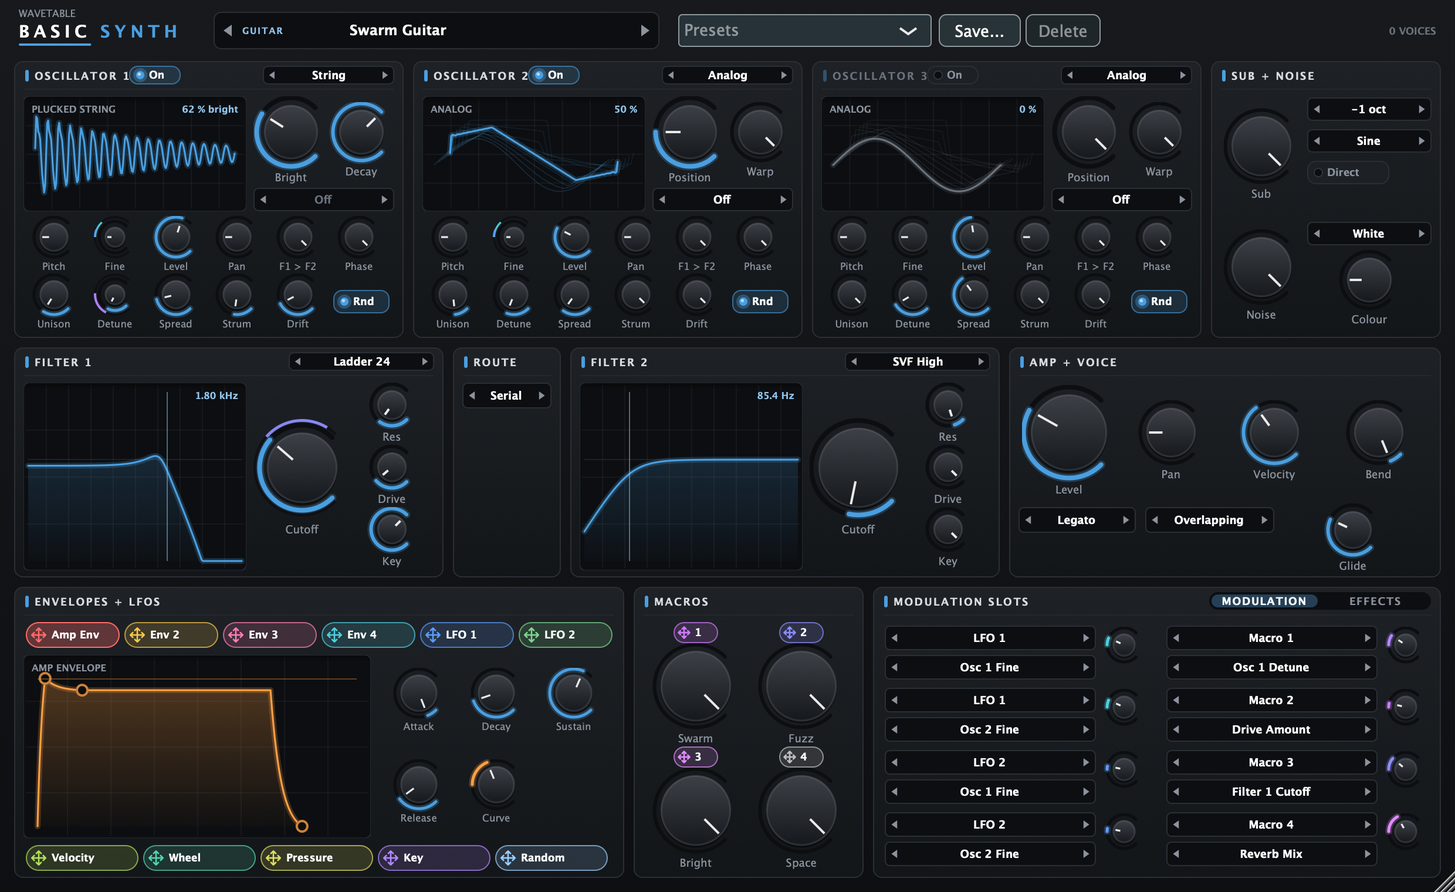
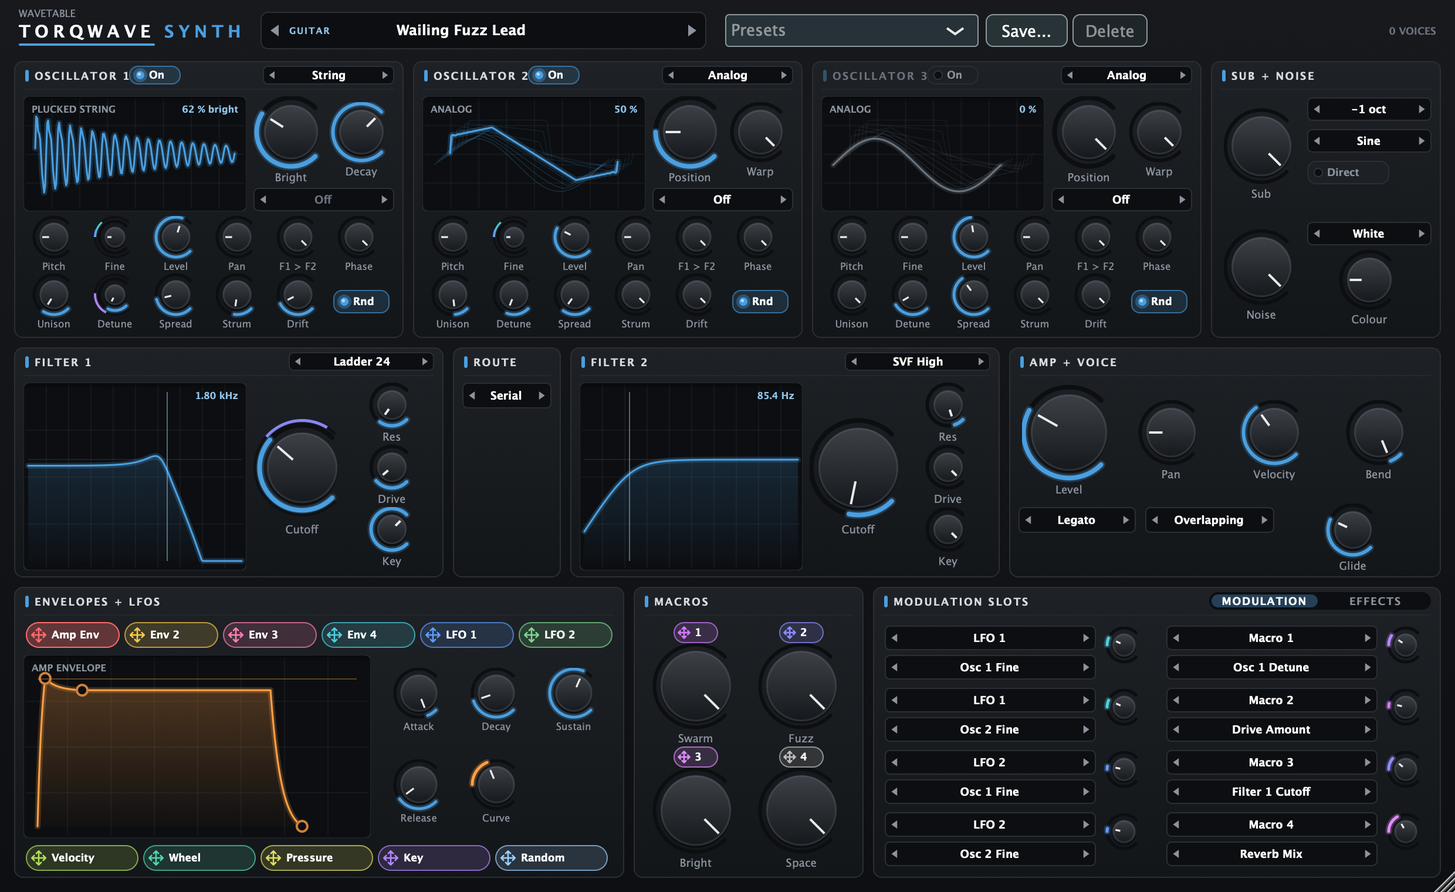
Basic Synth is now Torqwave Synth; Swarm Guitar patch is Wailing Fuzz Lead
The instrument's name changes in its window, the instrument menus and
Ask Torq; its plug-in ID and uid stay, so sessions and presets still
find it. A preset's instrument is shown by a built-in's current name,
looked up by its ID, so the factory presets saved as Basic Synth show
the new one. The window's header has room for the longer name.

The Swarm Guitar patch is renamed so it doesn't share a name with the
built-in Swarm Guitar instrument. Docs, the guide screenshot and the
changelog follow; older changelog entries keep the old name.

diff --git a/Tests/AiTests.cpp b/Tests/AiTests.cpp
@@ -638,7 +638,7 @@ namespace
 
         const auto found = call ("list_plugins", R"({"search": "limit"})");
         check ((int) found["count"] == 1 && found["plugins"][0]["name"] == juce::var ("Limiter"), "AI plug-ins: list_plugins searches by name");
-        check (! (bool) call ("add_plugin", R"({"plugin": "Basic Synth"})")["ok"], "AI plug-ins: an instrument isn't put in the effect chain");
+        check (! (bool) call ("add_plugin", R"({"plugin": "Torqwave Synth"})")["ok"], "AI plug-ins: an instrument isn't put in the effect chain");
 
         const auto added = call ("add_plugin", R"({"plugin": "Limiter"})");
         check ((bool) added["ok"] && (int) added["slot"] == 1 && w.rackChanged(), "AI plug-ins: a plug-in is added by name");
@@ -1012,7 +1012,7 @@ namespace
                "Ask Torq sessions: volume automation drawn from points in any order, the same again and a pan out of range refused, listed by get_session, and removed");
 
         const auto added = call ("add_track_effect", R"({"track": "Reverb", "plugin": "Reverb"})");
-        const auto synth = call ("add_track_effect", R"({"track": "Drums", "plugin": "Basic Synth"})");
+        const auto synth = call ("add_track_effect", R"({"track": "Drums", "plugin": "Torqwave Synth"})");
         const auto unknown = call ("add_track_effect", R"({"track": "Drums", "plugin": "Nothing Like It"})");
         const auto loads = w.getChainChanges();
         check ((bool) added["ok"] && ! (bool) synth["ok"] && ! (bool) unknown["ok"] && loads.size() == 1 && loads[0].chain.size() == 1
@@ -1022,7 +1022,7 @@ namespace
 
         const auto shifted = call ("set_clip_effects", "{\"clip\": " + id + ", \"pitch\": -5, \"add\": \"Reverb\"}");
         const auto tooFar = call ("set_clip_effects", "{\"clip\": " + id + ", \"pitch\": 13}");
-        const auto instrument = call ("set_clip_effects", "{\"clip\": " + id + ", \"add\": \"Basic Synth\"}");
+        const auto instrument = call ("set_clip_effects", "{\"clip\": " + id + ", \"add\": \"Torqwave Synth\"}");
         const auto nothing = call ("set_clip_effects", "{\"clip\": " + id + "}");
         const auto& fx = state.tracks[0].clips[0].effects;
         const auto shown = call ("list_clips", R"({"track": "Drums"})")["clips"][0]["effects"].toString();
@@ -1189,7 +1189,7 @@ namespace
                "Ask Torq chains: the plan made on the engine's chain: an effect added first, one taken off, one switched off and set from text");
         engine.clearTrackEffects();
 
-        // An instrument track: Basic Synth and a compressor; a reverb put first among the effects
+        // An instrument track: Torqwave Synth and a compressor; a reverb put first among the effects
         // and a parameter of the synth set, the synth staying first in the chain.
         SessionState withSynth;
         withSynth.sampleRate = 48000.0;
@@ -1199,7 +1199,7 @@ namespace
         const auto keysId = keys.id;
         engine.session.reset (withSynth, {});
 
-        for (auto& name : { "Basic Synth", "Compressor" })
+        for (auto& name : { "Torqwave Synth", "Compressor" })
         {
             juce::PluginDescription d;
 
@@ -1383,7 +1383,7 @@ namespace
                         && catalogue.getUnderstanding (d)->model == "test-model";
 
         check (p.done == effects.size() && p.read == effects.size() && p.written == effects.size() && allLearnt
-                   && ! catalogue.getUnderstanding (builtIn ("Basic Synth")).has_value() && ! catalogue.hasCurrentFacts (builtIn ("Basic Synth")),
+                   && ! catalogue.getUnderstanding (builtIn ("Torqwave Synth")).has_value() && ! catalogue.hasCurrentFacts (builtIn ("Torqwave Synth")),
                "plug-in catalogue: Learn All reads and describes every built-in effect, and leaves instruments for later (" + p.message + ")");
         check ((int) requests.size() == effects.size() && requests[0].body.contains ("parameterCount") && ! requests[0].body.contains ("\"tools\""),
                "plug-in catalogue: the model is sent each plug-in's facts, with no tools");
@@ -1487,7 +1487,7 @@ namespace
         Ai::Workspace::Start start;
         Ai::SequenceTools::Context context;
         context.sequence = bassLine();
-        context.instrument = "Basic Synth";
+        context.instrument = "Torqwave Synth";
         context.instrumentAbout = "A simple subtractive synth.";
         context.instrumentParameters = { "Filter 1 Cutoff", "Filter 1 Resonance" };
         context.tempo = 96.0;
@@ -1507,14 +1507,14 @@ namespace
 
         const auto system = w.systemMessage();
         check (w.isSequence() && names == juce::StringArray { "get_sequence", "write_sequence", "suggest_for_sequence", "list_plugins", "describe_plugin" }
-                   && system.contains ("\"Night Bass\" open: a Bass part") && system.contains ("in A minor") && system.contains ("Basic Synth (A simple subtractive synth)")
+                   && system.contains ("\"Night Bass\" open: a Bass part") && system.contains ("in A minor") && system.contains ("Torqwave Synth (A simple subtractive synth)")
                    && system.contains ("96 BPM") && system.contains ("session's tempo is 128 BPM") && system.contains ("the session is in E minor"),
                "Ask Torq sequences: five tools (" + names.joinIntoString (", ") + "), and the system message gives the part's role, key, instrument, the tempos and the session's key");
 
         const auto got = call ("get_sequence", "{}");
         check ((bool) got["ok"] && got["role"] == juce::var ("Bass") && got["key"] == juce::var ("A minor") && (int) got["length"] == 7680 && (int) got["ticks_per_beat"] == 960
                    && got["notes"].size() == 4 && (int) got["notes"][1]["velocity"] == 90 && got["notes"][2]["name"] == juce::var ("F#3")
-                   && got["instrument"] == juce::var ("Basic Synth") && got["instrument_about"] == juce::var ("A simple subtractive synth.")
+                   && got["instrument"] == juce::var ("Torqwave Synth") && got["instrument_about"] == juce::var ("A simple subtractive synth.")
                    && got["instrument_parameters"].size() == 2 && (double) got["session_tempo"] == 128.0 && got["session_key"] == juce::var ("E minor")
                    && got["outside_key"].size() == 2 && got["outside_key"][0] == juce::var ("F#3 at bar 1, beat 3") && got["outside_key"][1] == juce::var ("G#2 at bar 1, beat 4"),
                "Ask Torq sequences: get_sequence gives the notes in ticks with their names, the instrument and what it is, and names the notes outside the key ("
@@ -1552,10 +1552,10 @@ namespace
             return ! (bool) r["ok"] ? r["error"].toString() : juce::String();
         };
         const auto noNote = suggestRefused (R"({ "title": "x", "kind": "notes", "remove": [ { "pitch": 60, "start": 0 } ] })");
-        const auto instrument = suggestRefused (R"({ "title": "x", "kind": "effect", "effect": "Basic Synth" })");
+        const auto instrument = suggestRefused (R"({ "title": "x", "kind": "effect", "effect": "Torqwave Synth" })");
         const auto noParameter = suggestRefused (R"({ "title": "x", "kind": "automation", "parameter": "Warmth", "points": [ { "tick": 0, "value": 0.5 } ] })");
         const auto noKind = suggestRefused (R"({ "title": "x", "kind": "magic" })");
-        check (noNote.contains ("no note to take out") && instrument.contains ("No effect plug-in is called \"Basic Synth\"") && noParameter.contains ("no parameter called \"Warmth\"")
+        check (noNote.contains ("no note to take out") && instrument.contains ("No effect plug-in is called \"Torqwave Synth\"") && noParameter.contains ("no parameter called \"Warmth\"")
                    && noKind.contains ("kind is") && w.getSequenceTools()->getSuggestions().empty(),
                "Ask Torq sequences: suggest_for_sequence refuses a note that isn't there, an instrument as an effect, a parameter the instrument hasn't and an unknown kind");
 
@@ -1590,7 +1590,7 @@ namespace
         const auto folder = juce::File::createTempFile ("ask-sequencer");
         folder.createDirectory();
         const auto file = folder.getChildFile (juce::String ("Night Bass") + SequenceFile::extension);
-        // Its voice: the Basic Synth.
+        // Its voice: the Torqwave Synth.
         auto line = bassLine();
         {
             SessionState s;

diff --git a/Tests/InstrumentTrackTests.cpp b/Tests/InstrumentTrackTests.cpp
@@ -1078,7 +1078,7 @@ namespace
         BuiltInEffects::addTo (engine.knownPlugins);
         const auto known = Instrument::known (engine.knownPlugins);
         const auto builtInFirst = ! known.isEmpty() && known[0].fileOrIdentifier == BuiltInEffects::basicSynthId
-                                  && Instrument::title (known[0]) == "Basic Synth (built in)"
+                                  && Instrument::title (known[0]) == "Torqwave Synth (built in)"
                                   && std::all_of (known.begin(), known.end(), [] (auto& d) { return d.isInstrument; });
 
         SessionState s;
@@ -1093,7 +1093,7 @@ namespace
 
         // The view hears of the new track by a change message, and the instrument is made asynchronously.
         const auto selected = TestUtils::runUntil ([&] { return view.getSelectedTrack() == 1; }, 5000);
-        const auto added = state->tracks.size() == 2 && state->tracks[1].name == "Basic Synth" && state->tracks[1].isInstrument && selected;
+        const auto added = state->tracks.size() == 2 && state->tracks[1].name == "Torqwave Synth" && state->tracks[1].isInstrument && selected;
         const auto loaded = TestUtils::runUntil ([&] { return engine.getTrackEffects().getInstrument (trackId) != nullptr; }, 10000);
 
         // A right-click on a lane away from the clips: adding tracks anywhere, notes on an
@@ -1178,15 +1178,15 @@ namespace
         for (juce::PopupMenu::MenuItemIterator it (manyMenu); it.next();)
             manyTexts.add (it.getItem().text + (it.getItem().subMenu != nullptr ? " >" : ""));
 
-        const auto flat = fewTexts.size() == 3 && fewTexts[0] == "Basic Synth (built in)" && fewTexts[1] == "Zed (VST3, Acme)" && fewTexts[2] == "Alpha (VST3, Beta Labs)" && fewSubmenus == 0;
-        const auto grouped = manyTexts.size() == 3 && manyTexts[0] == "Basic Synth (built in)" && manyTexts[1] == "Audio Units >" && manyTexts[2] == "VST3 >";
-        const auto byFormat = mixedTexts == juce::StringArray { "Basic Synth (built in)", "Audio Units >", "VST3 >" };
+        const auto flat = fewTexts.size() == 3 && fewTexts[0] == "Torqwave Synth (built in)" && fewTexts[1] == "Zed (VST3, Acme)" && fewTexts[2] == "Alpha (VST3, Beta Labs)" && fewSubmenus == 0;
+        const auto grouped = manyTexts.size() == 3 && manyTexts[0] == "Torqwave Synth (built in)" && manyTexts[1] == "Audio Units >" && manyTexts[2] == "VST3 >";
+        const auto byFormat = mixedTexts == juce::StringArray { "Torqwave Synth (built in)", "Audio Units >", "VST3 >" };
         check (flat && grouped && byFormat, "instrument tracks: the instrument menu lists a few scanned instruments of one format flat with their format and maker, and many, "
                                             "or a few in two formats, under a submenu a format and a maker, the built-in always first ("
                                             + fewTexts.joinIntoString (", ") + " / " + mixedTexts.joinIntoString (", ") + " / " + manyTexts.joinIntoString (", ") + ")");
 
         check (builtInFirst && added && loaded && engine.getTrackEffects().getInstrument (trackId) == nullptr,
-               "instrument tracks: the known instruments start with the Basic Synth (built in); Add Instrument Track adds a track named after "
+               "instrument tracks: the known instruments start with the Torqwave Synth (built in); Add Instrument Track adds a track named after "
                "it, selected, with the instrument first in its chain, and Remove Instrument takes it out"
                    + juce::String (builtInFirst ? "" : " [known]") + (added ? "" : " [added]") + (loaded ? "" : " [loaded]"));
         engine.clearTrackEffects();

diff --git a/Tests/PresetTests.cpp b/Tests/PresetTests.cpp
@@ -118,7 +118,7 @@ namespace
         return std::numeric_limits<float>::quiet_NaN();
     }
 
-    /** The instrument settings a voice carries, loaded into a fresh Basic Synth. */
+    /** The instrument settings a voice carries, loaded into a fresh Torqwave Synth. */
     std::unique_ptr<BuiltInEffects::BasicSynthProcessor> synthFrom (const juce::XmlElement& voice)
     {
         auto* slot = voice.getChildByName ("EFFECTS") != nullptr ? voice.getChildByName ("EFFECTS")->getChildByName ("SLOT") : nullptr;
@@ -244,7 +244,7 @@ void runPresetTests (AudioEngine& engine)
             std::cout << "SKIP  presets: python3 isn't here to run Scripts/make_presets.py again" << std::endl;
     }
 
-    // The voices carry their instrument's settings: the acid line's Basic Synth (written in 0.19.2's terms) has its resonance and
+    // The voices carry their instrument's settings: the acid line's Torqwave Synth (written in 0.19.2's terms) has its resonance and
     // glide, its 320 Hz cutoff lowered 2.4 octaves for its velocity to open again (60 % velocity to filter).
     {
         juce::String error;
@@ -253,9 +253,9 @@ void runPresetTests (AudioEngine& engine)
         const auto groove = SequenceFile::load (presets.getChildFile ("Drums/Full Grooves/Peak Hour Driver.tqseq"), error);
         check (synth != nullptr && std::abs (plainOf (*synth, "filter1Resonance") - 75.0f) < 0.01f && std::abs (plainOf (*synth, "glideTime") - 60.0f) < 0.01f
                    && juce::exactlyEqual (synth->parameter ("voiceMode")->getValue(), 1.0f)
-                   && std::abs (plainOf (*synth, "filter1Cutoff") * std::exp2 (2.4f) - 320.0f) < 0.5f && SequenceFile::instrumentOf (*acid) == "Basic Synth"
+                   && std::abs (plainOf (*synth, "filter1Cutoff") * std::exp2 (2.4f) - 320.0f) < 0.5f && SequenceFile::instrumentOf (*acid) == "Torqwave Synth"
                    && groove.has_value() && SequenceFile::instrumentOf (*groove) == "Basic Drums" && groove->channel == 10,
-               "presets: a preset's voice carries its Basic Synth settings (the acid line's resonance 75 %, glide 60 ms as legato, cutoff 320 Hz less its velocity's 2.4 octaves); "
+               "presets: a preset's voice carries its Torqwave Synth settings (the acid line's resonance 75 %, glide 60 ms as legato, cutoff 320 Hz less its velocity's 2.4 octaves); "
                "a drum groove plays on Basic Drums, channel 10");
     }
 
@@ -439,7 +439,7 @@ void runPresetTests (AudioEngine& engine)
         check (onTrack.clipId != 0 && onTrack.trackId == s.tracks[0].id && onTrack.effects == nullptr
                    && onEmpty.clipId != 0 && s.tracks.size() == tracksBefore + 1 && onEmpty.effects != nullptr
                    && onEmpty.effects->toString().contains (BuiltInEffects::basicSynthId),
-               "presets: dropped on an instrument track a preset's notes play on that track's instrument; on empty space it makes a track playing its Basic Synth voice");
+               "presets: dropped on an instrument track a preset's notes play on that track's instrument; on empty space it makes a track playing its Torqwave Synth voice");
     }
 
     SequenceLibrary::setChosenFolder ({});

diff --git a/Source/WaveSynthEditor.cpp b/Source/WaveSynthEditor.cpp
@@ -1169,16 +1169,16 @@ struct WaveSynthEditor::Content final : public juce::Component
         auto header = getLocalBounds().removeFromTop (headerHeight).reduced (16, 0).toFloat();
         juce::GlyphArrangement glyphs;
         const auto font = bold (17.0f).withExtraKerningFactor (0.22f);
-        glyphs.addLineOfText (font, "BASIC", header.getX(), header.getCentreY() + 6.0f);
-        const auto basicWidth = glyphs.getBoundingBox (0, -1, true).getWidth();
+        glyphs.addLineOfText (font, "TORQWAVE", header.getX(), header.getCentreY() + 6.0f);
+        const auto firstWidth = glyphs.getBoundingBox (0, -1, true).getWidth();
         g.setColour (Theme::textStrong);
         glyphs.draw (g);
         juce::GlyphArrangement second;
-        second.addLineOfText (bold (17.0f).withExtraKerningFactor (0.22f), "SYNTH", header.getX() + basicWidth + 8.0f, header.getCentreY() + 6.0f);
+        second.addLineOfText (bold (17.0f).withExtraKerningFactor (0.22f), "SYNTH", header.getX() + firstWidth + 8.0f, header.getCentreY() + 6.0f);
         g.setColour (Theme::accent);
         second.draw (g);
         g.setColour (Theme::accent);
-        g.fillRoundedRectangle (header.getX(), header.getCentreY() + 11.0f, basicWidth, 2.0f, 1.0f);
+        g.fillRoundedRectangle (header.getX(), header.getCentreY() + 11.0f, firstWidth, 2.0f, 1.0f);
         g.setFont (plain (10.0f));
         g.setColour (Theme::dimText);
         g.drawText ("WAVETABLE", juce::Rectangle<float> (header.getX(), header.getCentreY() - 21.0f, 140.0f, 12.0f), juce::Justification::centredLeft);
@@ -1196,7 +1196,7 @@ struct WaveSynthEditor::Content final : public juce::Component
         constexpr int gap = 8, margin = 12;
         auto r = getLocalBounds().reduced (margin, 0);
         auto header = r.removeFromTop (headerHeight);
-        header.removeFromLeft (170);
+        header.removeFromLeft (210);
         header.removeFromRight (100);
         browser.setBounds (header.removeFromLeft (380).withSizeKeepingCentre (380, 32));
         header.removeFromLeft (gap * 2);

diff --git a/Tests/WaveSynthTests.cpp b/Tests/WaveSynthTests.cpp
@@ -418,9 +418,9 @@ namespace
         }
 
         Theme::apply (before);
-        synth.loadPatch ("Swarm Guitar");
+        synth.loadPatch ("Wailing Fuzz Lead");
         window->refresh();
-        synth.loadPatch ("Swarm Guitar");
+        synth.loadPatch ("Wailing Fuzz Lead");
         window->refresh();
         check (drawn && window->knobFor ("osc1Position") != nullptr && window->knobFor ("osc1Position")->getLabel() == "Bright",
                "synth: every page of its window draws in dark and light at 2x, and a string's Position reads as its brightness");
@@ -440,8 +440,8 @@ namespace
             categoriesKnown = categoriesKnown && WaveSynth::patchCategories().contains (p.category);
         }
 
-        check (all.size() >= 1000 && names.size() == all.size() && categoriesKnown && names.count ("Swarm Guitar") == 1 && names.count ("Swarm Drone") == 1,
-               "synth: " + juce::String ((int) all.size()) + " factory patches, each named once, in known categories, Swarm Guitar and Swarm Drone among them");
+        check (all.size() >= 1000 && names.size() == all.size() && categoriesKnown && names.count ("Wailing Fuzz Lead") == 1 && names.count ("Swarm Drone") == 1,
+               "synth: " + juce::String ((int) all.size()) + " factory patches, each named once, in known categories, Wailing Fuzz Lead and Swarm Drone among them");
 
         // Each plays a held minor chord (C3, E flat 3, G3 for two seconds) between -24 and -1 dB.
         juce::StringArray problems;
@@ -698,7 +698,7 @@ namespace
         phrase.push_back ({ 30011, juce::MidiMessage::pitchWheel (1, 12000) });
         juce::StringArray differ;
 
-        for (auto name : { "Acid Drip", "Swarm Guitar", "Gated Machine", "Ghost Signal", "Abyss Reese", "Concrete Pad" })
+        for (auto name : { "Acid Drip", "Wailing Fuzz Lead", "Gated Machine", "Ghost Signal", "Abyss Reese", "Concrete Pad" })
         {
             synth.loadPatch (name);
             const auto reference = play (synth, phrase, (int) (1.5 * rate), 512);

diff --git a/Source/WaveSynthPatches.cpp b/Source/WaveSynthPatches.cpp
@@ -1,6 +1,6 @@
 #include "WaveSynthPatchBuilder.h"
 
-// Basic Synth's factory patches: sounds for dark techno and industrial music. Each is written as
+// Torqwave Synth's factory patches: sounds for dark techno and industrial music. Each is written as
 // the settings it changes from the defaults (a patch loads onto a fresh synth), its modulation
 // slots and its macros. Their levels are checked by a test: every patch plays a held chord
 // between -24 and -1 dB.
@@ -144,11 +144,11 @@ namespace WaveSynthPatchBuilder
 
         //======================================================================
         // Guitar: strings tuned alike and played at once.
-        // Swarm Guitar: a slow, wailing fuzz lead, one note at a time, matched by ear and spectrum to
+        // Wailing Fuzz Lead: a slow, wailing fuzz lead, one note at a time, matched by ear and spectrum to
         // a 2017 industrial ballad's lead: strings that ring on over a sustained wave at the same
         // pitch, fuzz at nearly full, long slides between notes, and a vibrato of about 17 cents at
         // 4 Hz that comes in late, with a slower waver on top.
-        add ("Swarm Guitar", "Guitar").osc (1, string, 62, 90).warp (1, wOff, 100).unison (1, 3, 7, 45, 4, 40)
+        add ("Wailing Fuzz Lead", "Guitar").osc (1, string, 62, 90).warp (1, wOff, 100).unison (1, 3, 7, 45, 4, 40)
             .osc (2, analog, 50, 60).unison (2, 2, 6, 30)
             .filter (1, ladder24, 1800, 30, 35, 100).filter (2, svfHigh, 85, 10).drive (fuzz, 90, 9000)
             .amp (3, 600, 92, 350).mono (350).bend (2).lfo (1, sine, 4.0f, 1, 30).lfoFade (1, 450).lfo (2, drift, 1.5f, 0)

diff --git a/Source/SequenceFile.cpp b/Source/SequenceFile.cpp
@@ -1,4 +1,5 @@
 #include "SequenceFile.h"
+#include "BuiltInEffects.h"
 #include "NoteTools.h"
 #include "TrackTemplate.h"
 
@@ -137,7 +138,15 @@ juce::String instrumentOf (const Sequence& q)
     if (auto* effects = q.voice->getChildByName ("EFFECTS"))
         if (auto* slot = effects->getChildByName ("SLOT"))
             if (auto* plugin = slot->getChildByName ("PLUGIN"); plugin != nullptr && plugin->getBoolAttribute ("isInstrument"))
+            {
+                // A built-in instrument by the name it has now (Basic Synth is Torqwave Synth since 0.19.3).
+                if (juce::PluginDescription d; d.loadFromXml (*plugin))
+                    for (auto& builtIn : BuiltInEffects::getDescriptions())
+                        if (builtIn.fileOrIdentifier == d.fileOrIdentifier && builtIn.pluginFormatName == d.pluginFormatName)
+                            return builtIn.name;
+
                 return plugin->getStringAttribute ("name");
+            }
 
     return {};
 }

diff --git a/Tests/SequenceTests.cpp b/Tests/SequenceTests.cpp
@@ -1385,7 +1385,7 @@ void runSequenceTests (AudioEngine& engine)
                "sequencer: an instrument chosen from the menu opens its window at once");
 
         // Velocity and a lane, heard through the Sequencer's player: a loud A4 on beat 1, a soft one
-        // on beat 2, and a Pan lane at 0 (hard left), through the Basic Synth (whose level follows
+        // on beat 2, and a Pan lane at 0 (hard left), through the Torqwave Synth (whose level follows
         // velocity by 70 %: 1 - 0.7 + 0.7 v).
         {
             const auto folder = juce::File::createTempFile ("heard");

diff --git a/Tests/SynthClickTests.cpp b/Tests/SynthClickTests.cpp
@@ -6,7 +6,7 @@
 #include "TestUtils.h"
 #include "SynthClickTests.h"
 
-// Basic Synth must not click: a note stolen, retriggered, released or silenced by All Sound Off
+// Torqwave Synth must not click: a note stolen, retriggered, released or silenced by All Sound Off
 // fades, and an oscillator starts where it is silent. Three presets that clicked in 0.19.2 are
 // played through the synth at the settings they carry, with their notes and lanes at their tempo,
 // and a torture case retriggers, steals and silences notes on top. The measure is the largest

diff --git a/Source/WaveSynth.h b/Source/WaveSynth.h
@@ -72,7 +72,7 @@ namespace WaveSynth
 
 namespace BuiltInEffects
 {
-    /** The instrument built in, under the plug-in ID Basic Synth has always had: WaveSynth's engine
+    /** The instrument built in, under the plug-in ID it had as Torqwave Synth: WaveSynth's engine
         (see above), stereo, with its own window. A session or preset saved before 0.19.3 loads
         its old settings as the nearest sound the new engine makes: its wave as the Analog table's
         position, oscillators 2 and 3 at their octave, detune and level, its envelope, its

diff --git a/Source/WaveSynthEditor.h b/Source/WaveSynthEditor.h
@@ -3,7 +3,7 @@
 #include "WaveSynth.h"
 #include "SoundControls.h"
 
-/** Basic Synth's window: the three oscillators with their wavetables drawn at the position they
+/** Torqwave Synth's window: the three oscillators with their wavetables drawn at the position they
     play, the sub and noise; the two filters with their response curves; the amp and voice; the
     envelopes (drag their points) and LFOs (draw their steps), each a modulation source to drag
     onto any knob; the modulation slots; the macros; the effects; and a browser for the factory

diff --git a/Source/Instrument.h b/Source/Instrument.h
@@ -34,7 +34,7 @@ namespace Instrument
         Unit instrument, by name (then format). */
     juce::Array<juce::PluginDescription> known (const juce::KnownPluginList&);
 
-    /** An instrument's name with where it is from: "Basic Synth (built in)", "Name (Audio Units, Maker)". */
+    /** An instrument's name with where it is from: "Torqwave Synth (built in)", "Name (Audio Units, Maker)". */
     juce::String title (const juce::PluginDescription&);
 
     /** Adds the instruments to a menu, each choosing itself: the built-in ones first, then the
